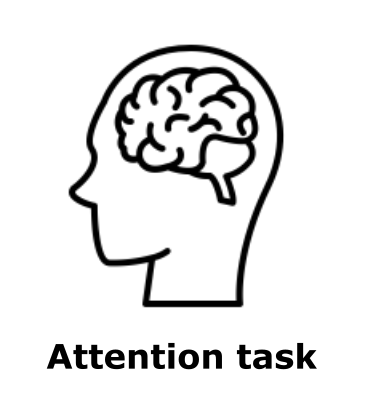
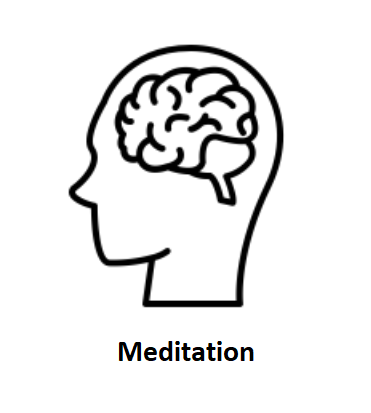
Add files via upload

Changed region(s): [[0.1186, 0.8136, 0.8598, 0.9007]]

diff --git a/index.html b/index.html
@@ -5,7 +5,7 @@
   <meta charset="utf-8">
   <title>STREAM study portal</title>
   <meta name="description" content="STREAM - study portal">
-  <meta name="author" content="Dr Maria Niedernhuber (University of Zurich, University of Cambridge)">
+  <meta name="author" content="Dr Maria Niedernhuber (University of Zurich, University of Cambridge), Joaquim Streicher (University of Cambridge)">
   <meta name="viewport" content="width=device-width, initial-scale=1, maximum-scale=1, user-scalable=no"/>
 
   <link rel="stylesheet" href="https://cdnjs.cloudflare.com/ajax/libs/font-awesome/4.7.0/css/font-awesome.min.css">
@@ -83,7 +83,8 @@
   <a class="active" href="index.html">Home</a>
   <a href="instructions.html">Instructions</a>
   <a href="eegheadband.html">Using the Dreem EEG headband</a>
-  <a href="signup.html">Before the study</a>
+  <a href="signup.html">Start of study</a>
+  <a href="signout.html">End of study</a>
   <a href="contact.html">Contact</a>
 </div>
 
@@ -108,10 +109,10 @@
 </div>
 
 <div class="container">
-  <div><a href="https://jatos.mindprobe.eu/publix/3GO5sDT8878"><img src="img/diary.png" alt="diary" style="width:185.5px;height:206.5px;"></a></div>
+  <div><a href="https://jatos.mindprobe.eu/publix/3GO5sDT8878"><img src="img/diary.png" alt="activitydiary" style="width:185.5px;height:206.5px;"></a></div>
   <div><a href="https://jatos.mindprobe.eu/publix/454k6U9fMPw"><img src="img/ratings.png" alt="ratings" style="width:185.5px;;height:206.5px;"></a> </div>
-  <div><a href="https://jatos.mindprobe.eu/publix/TZ7B5ZVmmC0"><img src="img/brain.png" alt="attentiontask" style="width:185.5px;height:206.5px;"></a></div>
-  <div><a href="https://jatos.mindprobe.eu/publix/3mxham0bWAK"><img src="img/sleep.png" alt="ratings" style="width:185.5px;;height:206.5px;"></a> </div>
+  <div><a href="https://jatos.mindprobe.eu/publix/TZ7B5ZVmmC0"><img src="img/brain.png" alt="meditationtask" style="width:185.5px;height:206.5px;"></a></div>
+  <div><a href="https://jatos.mindprobe.eu/publix/3mxham0bWAK"><img src="img/sleep.png" alt="sleepdiary" style="width:185.5px;;height:206.5px;"></a> </div>
   <meta name="viewport" content="width=device-width, initial-scale=1">
 </div>
 
